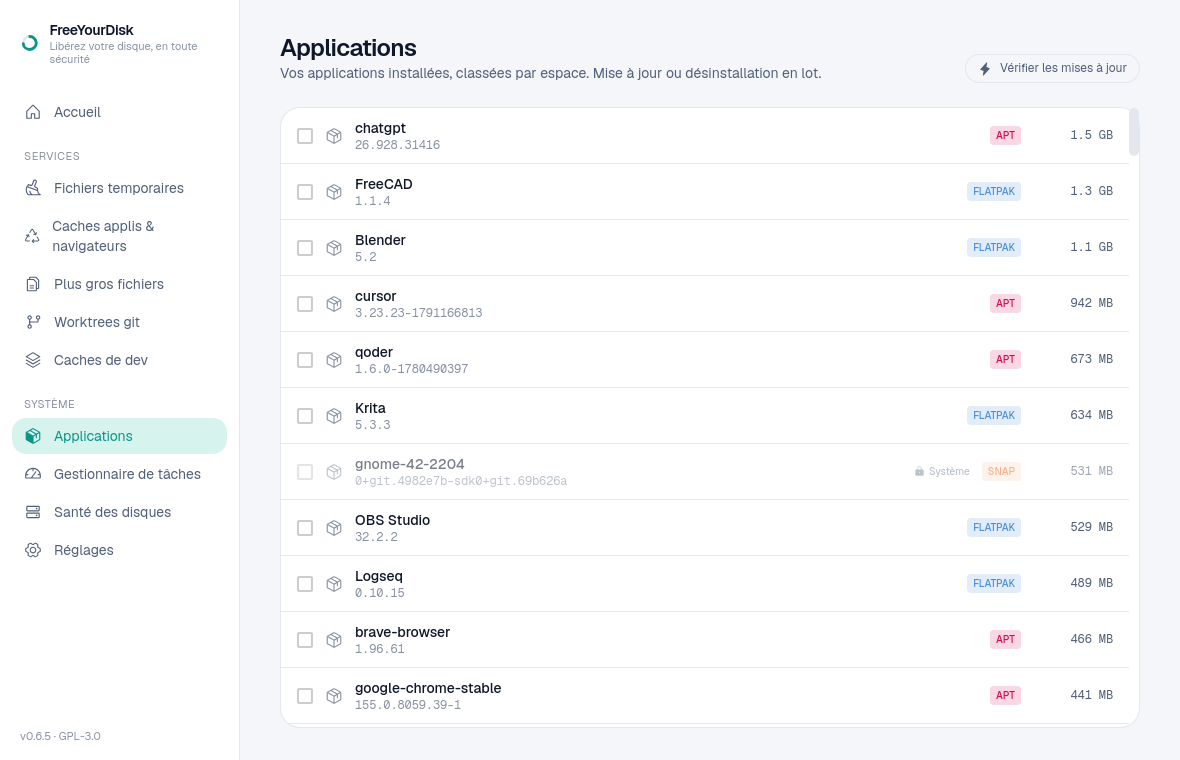
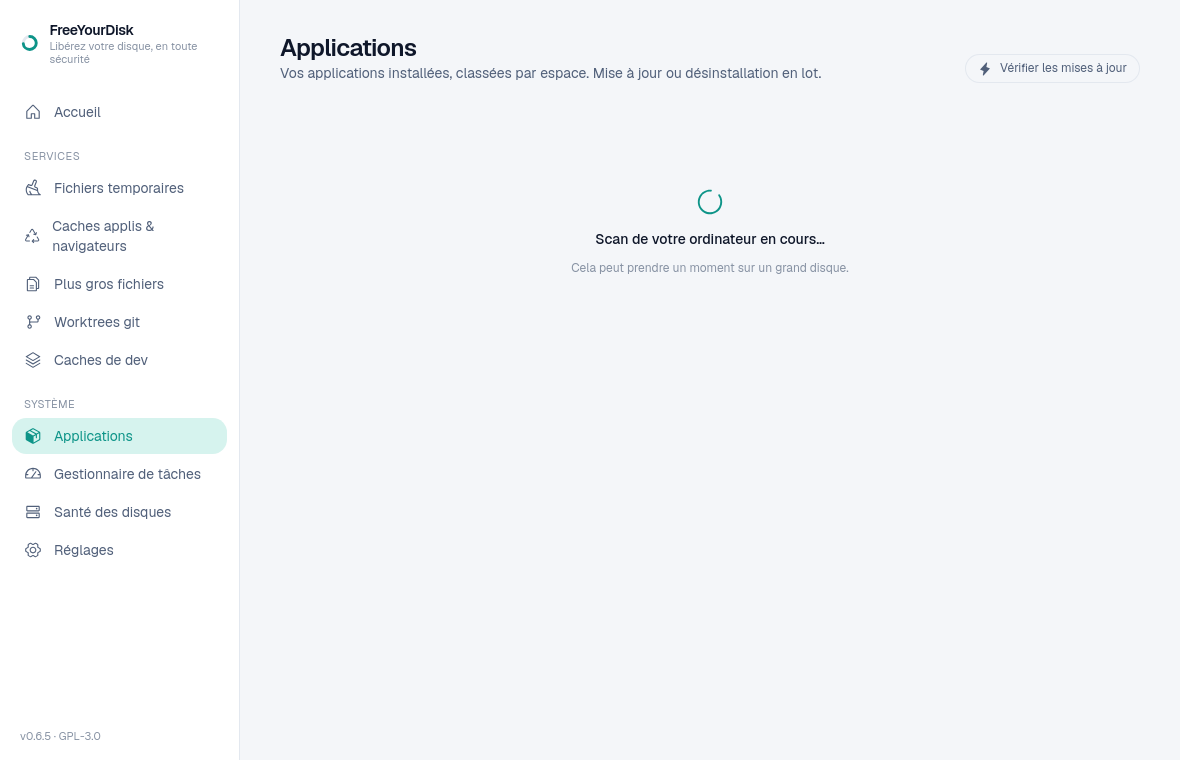
docs: refresh installed 0.6.5 screenshots in French and English

diff --git a/README.md b/README.md
@@ -12,7 +12,10 @@ model.
 
 Built with **Tauri** (Rust core + WebView), licensed **GPL-3.0-or-later**.
 
-![FreeYourDisk dashboard](docs/screenshots/dashboard.png)
+![FreeYourDisk dashboard](docs/screenshots/dashboard-en.png)
+
+These screenshots show the English interface of FreeYourDisk 0.6.5 installed
+from its `.deb` package on Debian Linux, captured from the desktop application.
 
 ---
 
@@ -41,7 +44,7 @@ Built with **Tauri** (Rust core + WebView), licensed **GPL-3.0-or-later**.
   Chromium/Electron caches under `~/.config`, Flatpak (`~/.var/app/*/cache`),
   Snap and npm/yarn/bun caches.
 
-![FreeYourDisk service view showing reclaimable files, selection controls, and cleanup preview](docs/screenshots/service-view.png)
+![FreeYourDisk service view showing reclaimable files, selection controls, and cleanup preview](docs/screenshots/service-view-en.png)
 
 ### Breakdown by file type
 
@@ -71,7 +74,7 @@ because they lack a standard safe update channel. Essential system packages are
 **protected** (update-only, uninstall blocked). App folders are excluded from
 the other scans.
 
-![FreeYourDisk Applications view showing installed applications and the explicit Check for updates action](docs/screenshots/applications.png)
+![FreeYourDisk Applications view showing installed applications and the explicit Check for updates action](docs/screenshots/applications-en.png)
 
 ### Disk health
 
